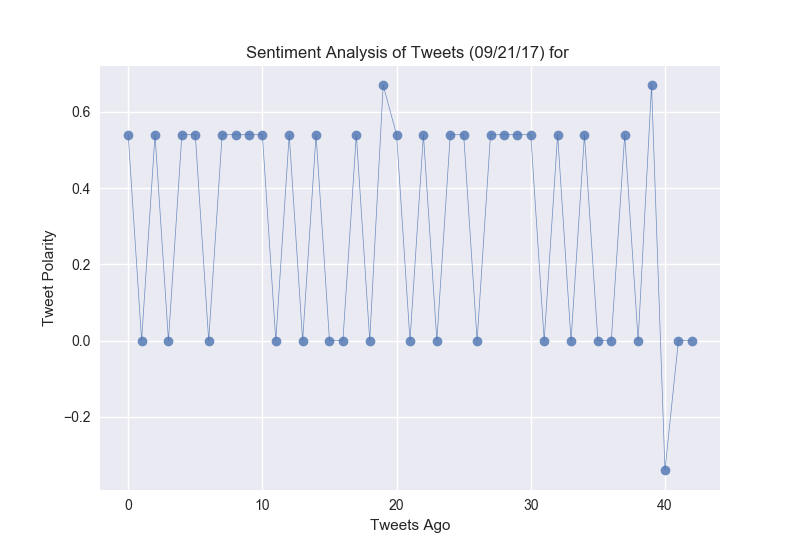
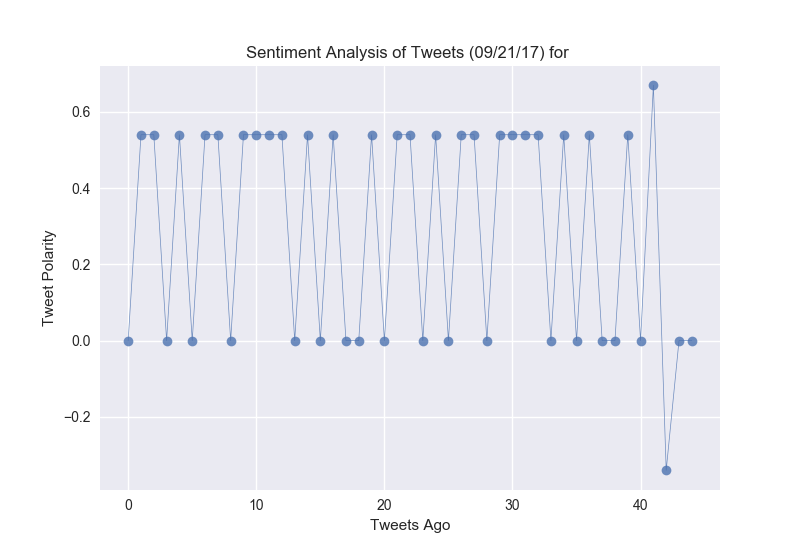
maybe got it working again?

diff --git a/PlotBot95.py b/PlotBot95.py
@@ -1,16 +1,16 @@
 # Dependencies
-import matplotlib
-matplotlib.use('Agg')
+import json
+import time
+
 import matplotlib.pyplot as plt
 import numpy as np
 import pandas as pd
-import json
-import tweepy
-import time
 import seaborn as sns
 
+import tweepy
 # Initialize Sentiment Analyzer
 from vaderSentiment.vaderSentiment import SentimentIntensityAnalyzer
+
 analyzer = SentimentIntensityAnalyzer()
 
 # Twitter API Keys
@@ -21,14 +21,13 @@ access_token_secret = "QjOonCIFm2F0F4kK6pmJZtJn36qf4M7qGTGvzMDxQu7sT"
 
 # Create a global variable to pass through both functions
 target_list = []
+
 target_user = ''
-tweet_author = ''
+tweet_author = ""
 
 # Function is made to find mentions of my twitter handle
 def find_me():
     print('starting find me fxn')
-   # target_user = ''
-  #  tweet_author = ''
 
     # Setup Tweepy API Authentication
     auth = tweepy.OAuthHandler(consumer_key, consumer_secret)
@@ -37,9 +36,11 @@ def find_me():
     
     # Target Term
     target_term = "@jeffrey_coen"
-    
+    target_user = ""
+    tweet_author = ''
+
     # Search for all tweets
-    public_tweets = api.search(target_term, count=2, result_type="recent")
+    public_tweets = api.search(target_term, count=3, result_type="recent")
 
    # Loop through all public_tweets
     for tweet in public_tweets["statuses"]:
@@ -48,6 +49,7 @@ def find_me():
         tweet_id = tweet["id"]
         tweet_author = tweet["user"]["screen_name"]
         tweet_text = tweet["text"]
+        print(tweet_text)
         
         # Split the tweet 
         targeted_user = tweet_text.split()
@@ -56,7 +58,7 @@ def find_me():
         target_user = targeted_user[-1]
         
 
-        # Return values to be used in the next fxn
+    # Return values to be used in the next fxn
     return target_user, tweet_author
 
 # Create a function to perform the requested sentiment analysis
@@ -69,28 +71,28 @@ def perform_sentiment():
     api = tweepy.API(auth, parser=tweepy.parsers.JSONParser())
 
     # Target Account
-    target_user = find_me()[0]
+    target_user2 = find_me()[0]
     tweet_author = find_me()[1]
 
     # Spam filter.  If target user does not appear in the list, then we perform analysis in the else startment
-    if target_user in target_list:
-        print(target_user + " has already had analysis performed")
+    if target_user2 in target_list:
+        print(target_user2 + " has already had analysis performed")
 
     else:
         # Append list of analyzed names
-        target_list.append(target_user)
+        target_list.append(target_user2)
 
         # Counter
         counter = 0
 
-        # Variables for holding sentiments, and resetting it
+        # Variables for holding sentiments
         sentiments = []
-        
+
         # Loop through 5 pages of tweets (total 100 tweets)
         for x in range(25):
 
             # Get all tweets from home feed
-            public_tweets = api.user_timeline(target_user, page = x)
+            public_tweets = api.user_timeline(target_user2, page = x)
 
             # Loop through all tweets 
             for tweet in public_tweets:
@@ -99,13 +101,14 @@ def perform_sentiment():
                 compound = analyzer.polarity_scores(tweet["text"])["compound"]
                 
                 # Add sentiments for each tweet into an array
-                sentiments.append({"Date": tweet["created_at"], "Compound": compound,})
+                sentiments.append({"Date": tweet["created_at"], "Compound": compound})
                 
                 # Add to counter 
                 counter = counter + 1
             
         # Convert sentiments to DataFrame
         sentiments_pd = pd.DataFrame.from_dict(sentiments)
+        sentiments_pd.head()
 
         print("There were " + str(counter) + ' tweets analyzed for sentiment')
 
@@ -113,7 +116,7 @@ def perform_sentiment():
         plt.plot(np.arange(len(sentiments_pd["Compound"])), sentiments_pd["Compound"], marker="o", linewidth=0.5, alpha=0.8)
 
         # # Incorporate the other graph properties
-        plt.title("Sentiment Analysis of Tweets (%s) for %s" % (time.strftime("%x"), target_user))
+        plt.title("Sentiment Analysis of Tweets (%s) for %s" % (time.strftime("%x"), target_user2))
         plt.ylabel("Tweet Polarity")
         plt.xlabel("Tweets Ago")
 
@@ -121,7 +124,7 @@ def perform_sentiment():
         plt.savefig("PlotBot.png")
         
         # Create a status update
-        api.update_with_media("PlotBot.png", "Sentiment analysis of " + target_user + ".  Thanks " + tweet_author + "!!")
+        api.update_with_media("PlotBot.png", "Sentiment analysis of " + target_user2 + ".  Thanks " + tweet_author + "!!")
         print('Thanks ' + tweet_author + '!!')
         
 while(True):
